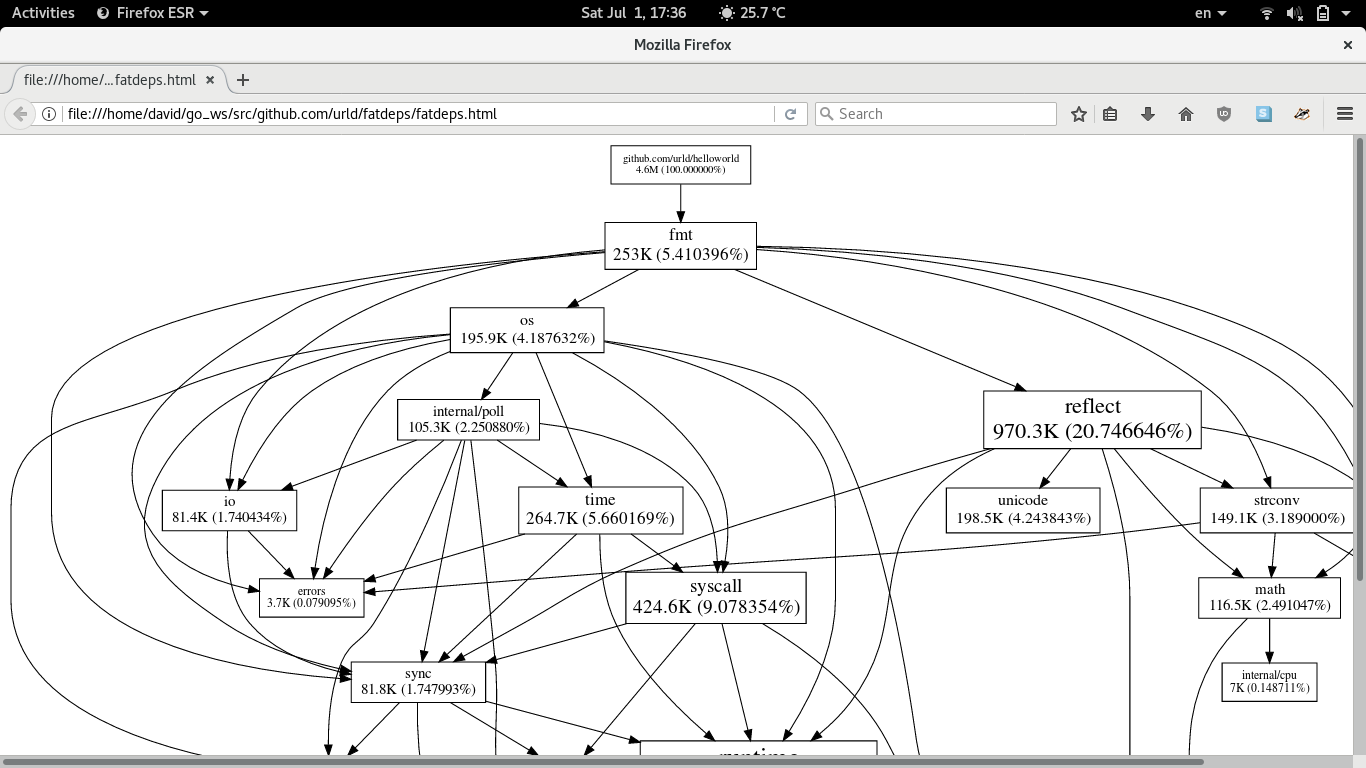
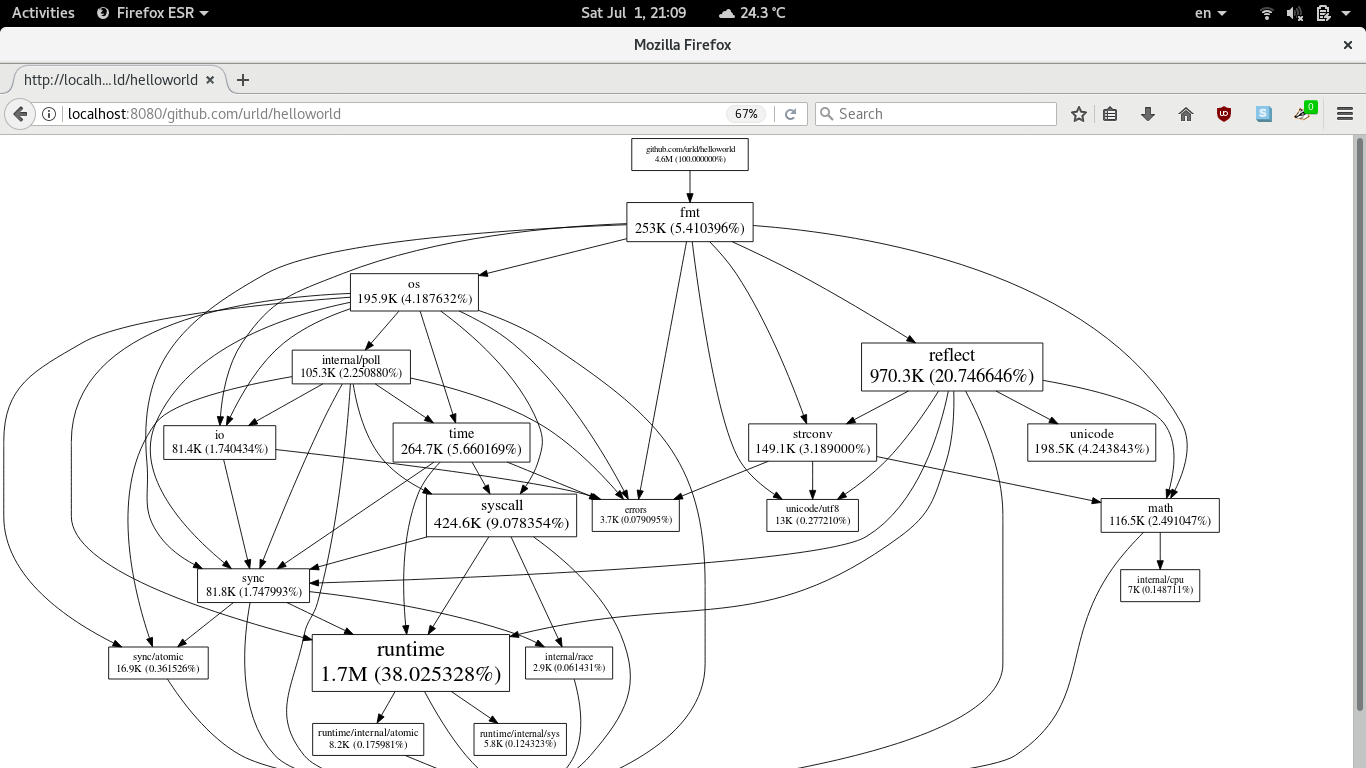
serve "interactive" graph via local http server

diff --git a/main.go b/main.go
@@ -1,31 +1,29 @@
 package main
 
 import (
-	"flag"
 	"fmt"
 	"go/build"
 	"io"
-	"io/ioutil"
-	"log"
 	"math"
+	"net/http"
 	"os"
 	"os/exec"
 	"path"
 	"regexp"
 	"strings"
+	"sync"
 
 	"code.cloudfoundry.org/bytefmt"
 	"github.com/pkg/browser"
 )
 
-var (
-	pkgs      = make(map[string]Package)
-	matchvar  = flag.String("match", ".*", "filter packages")
-	filename  = flag.String("file", "", "dump to file instead of opening in browser")
+var ctx struct {
+	sync.Mutex
+	pkgCount  int64
+	totalSize int64
+	pkgs      map[string]Package
 	pkgmatch  *regexp.Regexp
-	pkgCount  = int64(0)
-	totalSize = int64(0)
-)
+}
 
 type Package struct {
 	idx     int64
@@ -34,55 +32,64 @@ type Package struct {
 	Imports []string
 }
 
-func init() {
-	flag.Parse()
-	pkgmatch = regexp.MustCompile(*matchvar)
-}
-
 func main() {
-	if len(flag.Args()) != 1 {
+	if len(os.Args) != 2 {
 		fmt.Println("exactly 1 package name required")
 		os.Exit(2)
 	}
-	rootPkgName := flag.Arg(0)
+	rootPkgName := os.Args[1]
 
-	findImport(rootPkgName)
-	root := pkgs[rootPkgName]
-	root.Size = totalSize
-	pkgs[rootPkgName] = root
+	browser.OpenURL("http://localhost:8080/" + rootPkgName)
+	http.HandleFunc("/", handler)
+	err := http.ListenAndServe(":8080", nil)
+	if err != nil {
+		fmt.Println(err)
+		os.Exit(1)
+	}
+}
 
-	var file *os.File
-	var err error
-	if *filename == "" {
-		file, err = ioutil.TempFile(os.TempDir(), "fatdeps")
-		check(err)
-		defer os.Remove(file.Name())
-		defer file.Close()
-	} else {
-		file, err = os.OpenFile(*filename, os.O_RDWR|os.O_CREATE|os.O_TRUNC, 0644)
-		check(err)
-		defer file.Close()
+func handler(w http.ResponseWriter, r *http.Request) {
+	pkgName := r.URL.Path[1:]
+	match := r.URL.Query().Get("match")
+	pkgmatch, err := regexp.Compile(match)
+	if err != nil {
+		http.Error(w, err.Error(), http.StatusInternalServerError)
+		return
 	}
 
-	renderGraph(file)
-	file.Close()
-	browser.OpenFile(file.Name())
+	ctx.Lock()
+	defer ctx.Unlock()
+	ctx.pkgCount = 0
+	ctx.totalSize = 0
+	ctx.pkgs = make(map[string]Package)
+	ctx.pkgmatch = pkgmatch
+
+	err = findImport(pkgName)
+	if err != nil {
+		http.Error(w, err.Error(), http.StatusInternalServerError)
+		return
+	}
+	root := ctx.pkgs[pkgName]
+	root.Size = ctx.totalSize
+	ctx.pkgs[pkgName] = root
+
+	err = renderGraph(w)
+	if err != nil {
+		http.Error(w, err.Error(), http.StatusInternalServerError)
+		return
+	}
 
 }
 
-func findImport(p string) {
-	if !pkgmatch.MatchString(p) {
-		// doesn't match the filter, skip it
-		return
-	}
+func findImport(p string) error {
 	if p == "C" {
 		// C isn't really a package
-		pkgCount++
-		pkgs["C"] = Package{idx: pkgCount, Name: "C"}
+		ctx.pkgCount++
+		ctx.pkgs["C"] = Package{idx: ctx.pkgCount, Name: "C"}
 	}
-	if _, ok := pkgs[p]; ok {
+	if _, ok := ctx.pkgs[p]; ok {
 		// seen this package before, skip it
-		return
+		return nil
 	}
 	if strings.HasPrefix(p, "golang_org") {
 		p = path.Join("vendor", p)
@@ -90,60 +97,74 @@ func findImport(p string) {
 
 	pkg, err := build.Import(p, "", 0)
 	if err != nil {
-		log.Fatal(err)
+		return err
 	}
-	pkgs[p] = analyze(pkg, p)
-	for _, pkg := range pkgs[p].Imports {
-		findImport(pkg)
+	ctx.pkgs[p] = analyze(pkg, p)
+	for _, pkg := range ctx.pkgs[p].Imports {
+		err = findImport(pkg)
+		if err != nil {
+			return err
+		}
 	}
+	return nil
 }
 
 func analyze(pkg *build.Package, alias string) Package {
-	imports := filter(pkg.Imports)
+	imports := pkg.Imports
 	var size int64
 	info, err := os.Stat(pkg.PkgObj)
 	if err == nil {
 		size = info.Size()
-		totalSize += size
+		ctx.totalSize += size
 	}
-	pkgCount++
-	return Package{idx: pkgCount, Name: alias, Size: size, Imports: imports}
+	ctx.pkgCount++
+	return Package{idx: ctx.pkgCount, Name: alias, Size: size, Imports: imports}
 }
 
-func filter(s []string) []string {
-	var r []string
-	for _, v := range s {
-		if pkgmatch.MatchString(v) {
-			r = append(r, v)
-		}
-	}
-	return r
-}
-
-func renderGraph(w io.Writer) {
+func renderGraph(w io.Writer) error {
 	cmd := exec.Command("dot", "-Tsvg")
 	in, err := cmd.StdinPipe()
-	check(err)
+	if err != nil {
+		return err
+	}
 	out, err := cmd.StdoutPipe()
 	cmd.Stderr = os.Stderr
-	check(cmd.Start())
+	err = cmd.Start()
+	if err != nil {
+		return err
+	}
 
 	fmt.Fprintf(in, "digraph \"\" {\n")
-	for _, pkg := range pkgs {
-		printNode(in, pkg)
+	for _, pkg := range ctx.pkgs {
+		if ctx.pkgmatch.MatchString(pkg.Name) {
+			printNode(in, pkg)
+		}
 	}
-	for _, pkg := range pkgs {
+	for _, pkg := range ctx.pkgs {
 		if pkg.Imports == nil {
 			continue
 		}
+		if !ctx.pkgmatch.MatchString(pkg.Name) {
+			continue
+		}
+
 		for _, pkgImport := range pkg.Imports {
-			printEdge(in, pkg, pkgs[pkgImport])
+			if ctx.pkgmatch.MatchString(pkgImport) {
+				printEdge(in, pkg, ctx.pkgs[pkgImport])
+			}
 		}
 	}
 	fmt.Fprintf(in, "}\n")
 	in.Close()
-	io.Copy(w, out)
-	check(cmd.Wait())
+	_, err = io.Copy(w, out)
+	if err != nil {
+		return err
+	}
+	err = cmd.Wait()
+	if err != nil {
+		return err
+	}
+	return nil
 }
 
 func printEdge(w io.Writer, pkg, pkgImport Package) {
@@ -153,25 +174,19 @@ func printEdge(w io.Writer, pkg, pkgImport Package) {
 
 func printNode(w io.Writer, pkg Package) {
 	if pkg.Size > 0 {
-		ratio := float64(pkg.Size) / float64(totalSize)
+		ratio := float64(pkg.Size) / float64(ctx.totalSize)
 		// Scale font sizes from 8 to 32 based on percentage of flat frequency.
 		// Use non linear growth to emphasize the size difference.
 		baseFontSize, maxFontGrowth := 10, 24.0
 		fontSize := baseFontSize
-		if pkg.Size != totalSize {
+		if pkg.Size != ctx.totalSize {
 			fontSize += int(math.Ceil(maxFontGrowth * math.Sqrt(ratio)))
 		}
 
-		label := fmt.Sprintf("%s\n%s (%f%%)", pkg.Name, bytefmt.ByteSize(uint64(pkg.Size)), ratio*100)
-		fmt.Fprintf(w, "\tN%d [label=%q,shape=box fontsize=%d];\n", pkg.idx, label, fontSize)
+		label := fmt.Sprintf("%s\n%sB (%f%%)", pkg.Name, bytefmt.ByteSize(uint64(pkg.Size)), ratio*100)
+		url := "/" + pkg.Name
+		fmt.Fprintf(w, "\tN%d [label=%q,shape=box fontsize=%d URL=%q];\n", pkg.idx, label, fontSize, url)
 	} else {
 		fmt.Fprintf(w, "\tN%d [label=%q,shape=box];\n", pkg.idx, pkg.Name)
-	}
-}
-
-func check(err error) {
-
-	if err != nil {
-		log.Fatal(err)
 	}
 }

diff --git a/README.md b/README.md
@@ -17,12 +17,17 @@ First install [graphviz](http://graphviz.org/Download.php) for your OS, then
 
 ## Usage
 
+Start a http server and open the graph in browser:
 ```fatdeps github.com/urld/helloworld```
+All the nodes are linked.
+You can also use filter nodes:
+```http://localhost:8080/github.com/urld/helloworld?match=runtime```
 
 ![Example](https://github.com/urld/fatdeps/raw/master/example.png)
 
 
+
 ## TODO
 
-* http server for interactive graph navigation
 * show cumulative sizes
+* improve filter
